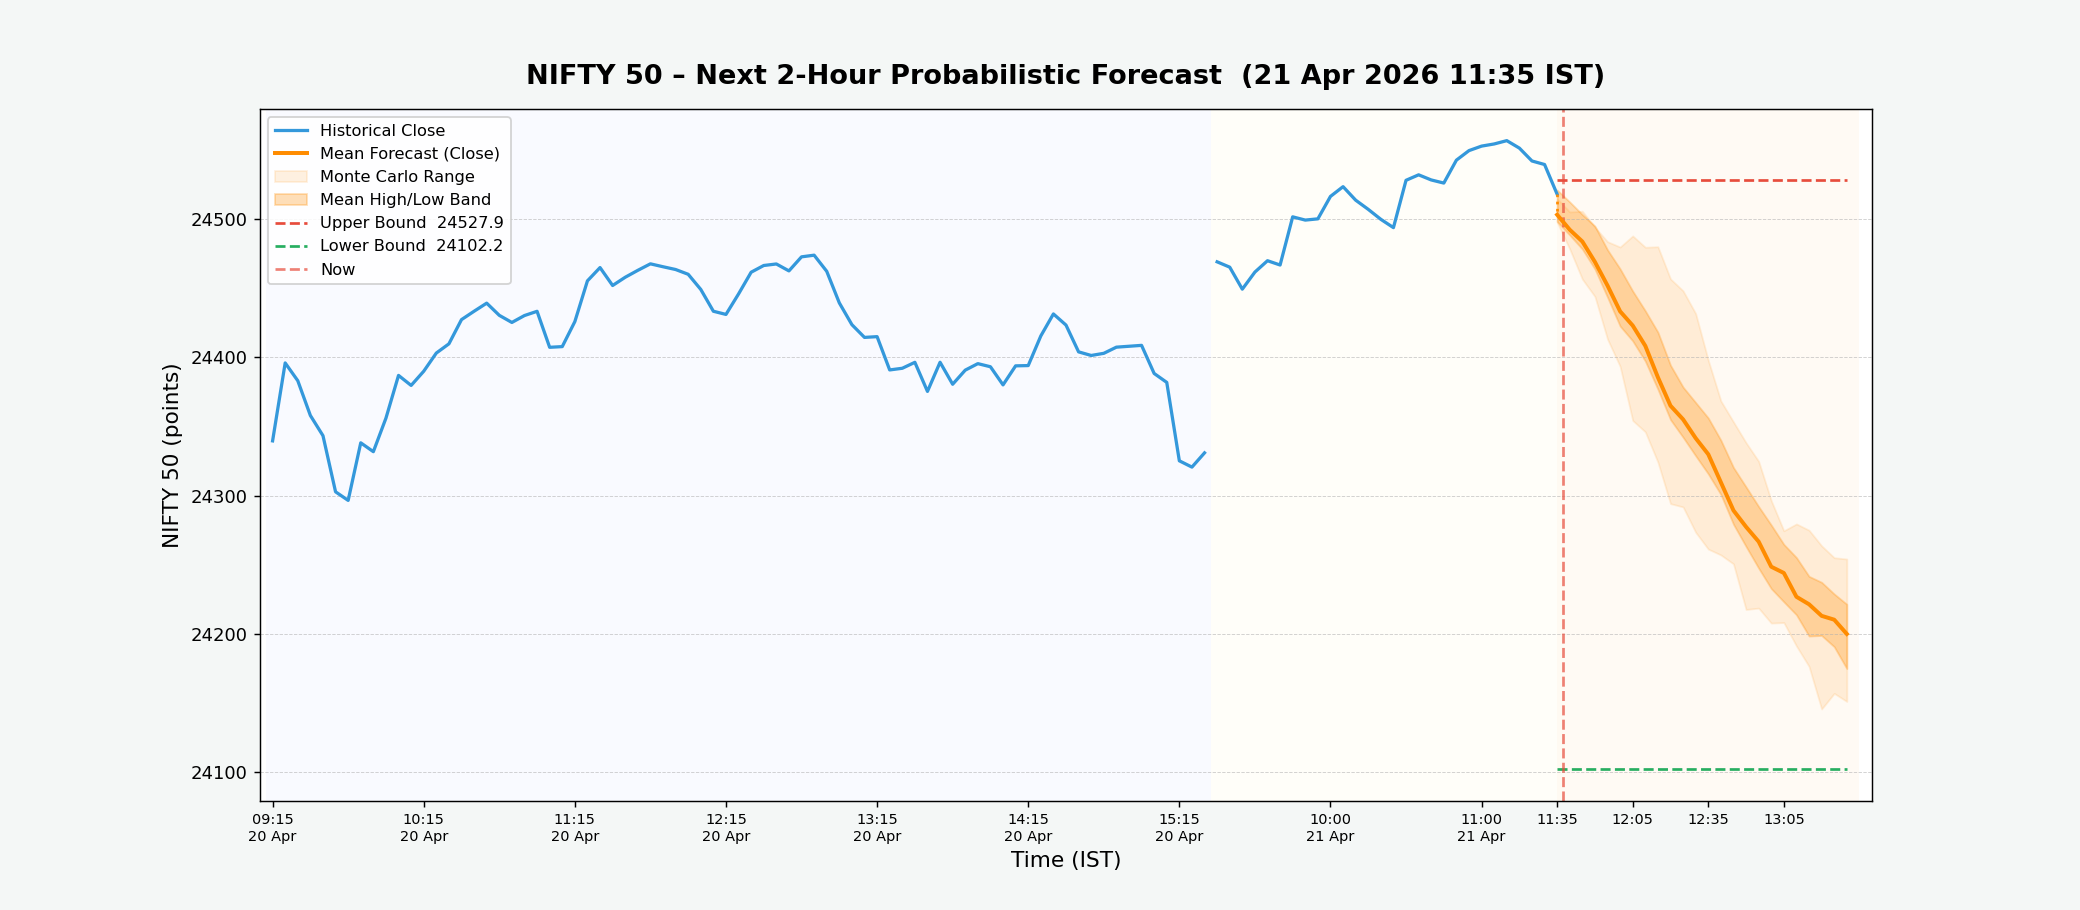
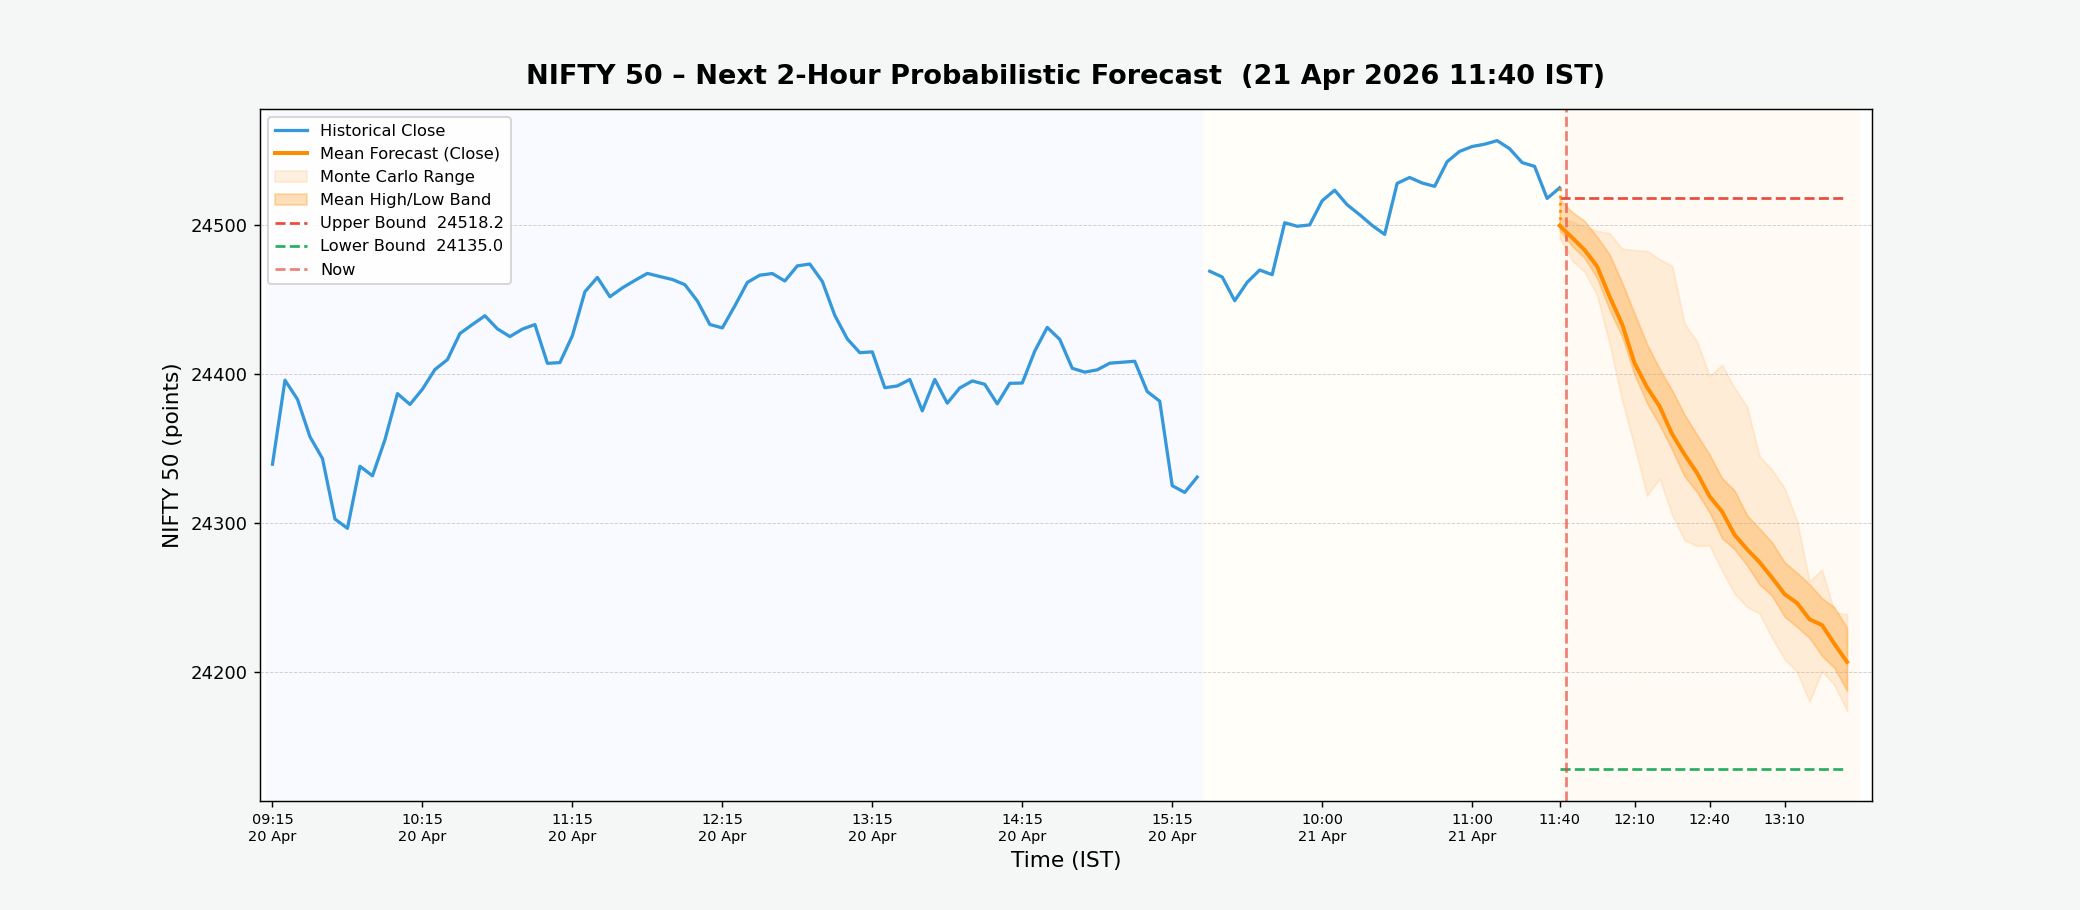
NIFTY forecast update – 2026-04-21 11:40 IST

diff --git a/index.html b/index.html
@@ -24,29 +24,29 @@
 
         <!-- Timestamp bar -->
         <div class="timestamp-bar">
-            <span>Last updated (IST):&nbsp;<strong id="update-time">2026-04-21 11:35:04</strong></span>
+            <span>Last updated (IST):&nbsp;<strong id="update-time">2026-04-21 11:40:04</strong></span>
         </div>
 
         <!-- Metric cards -->
         <div class="metrics-container">
             <div class="metric-card bullish">
                 <div class="metric-label">Bullish Bar Ratio</div>
-                <div class="metric-value" id="upside-prob">13.8%</div>
+                <div class="metric-value" id="upside-prob">9.6%</div>
                 <div class="metric-sub">Next 2h · close &gt; open %</div>
             </div>
             <div class="metric-card upper">
                 <div class="metric-label">Upper Bound</div>
-                <div class="metric-value" id="upper-bound">24527.9</div>
+                <div class="metric-value" id="upper-bound">24518.2</div>
                 <div class="metric-sub">Max predicted high</div>
             </div>
             <div class="metric-card lower">
                 <div class="metric-label">Lower Bound</div>
-                <div class="metric-value" id="lower-bound">24102.2</div>
+                <div class="metric-value" id="lower-bound">24135.0</div>
                 <div class="metric-sub">Min predicted low</div>
             </div>
             <div class="metric-card range">
                 <div class="metric-label">Predicted Range</div>
-                <div class="metric-value" id="pred-range">425.7 pts</div>
+                <div class="metric-value" id="pred-range">383.2 pts</div>
                 <div class="metric-sub">Upper − Lower spread</div>
             </div>
         </div>
